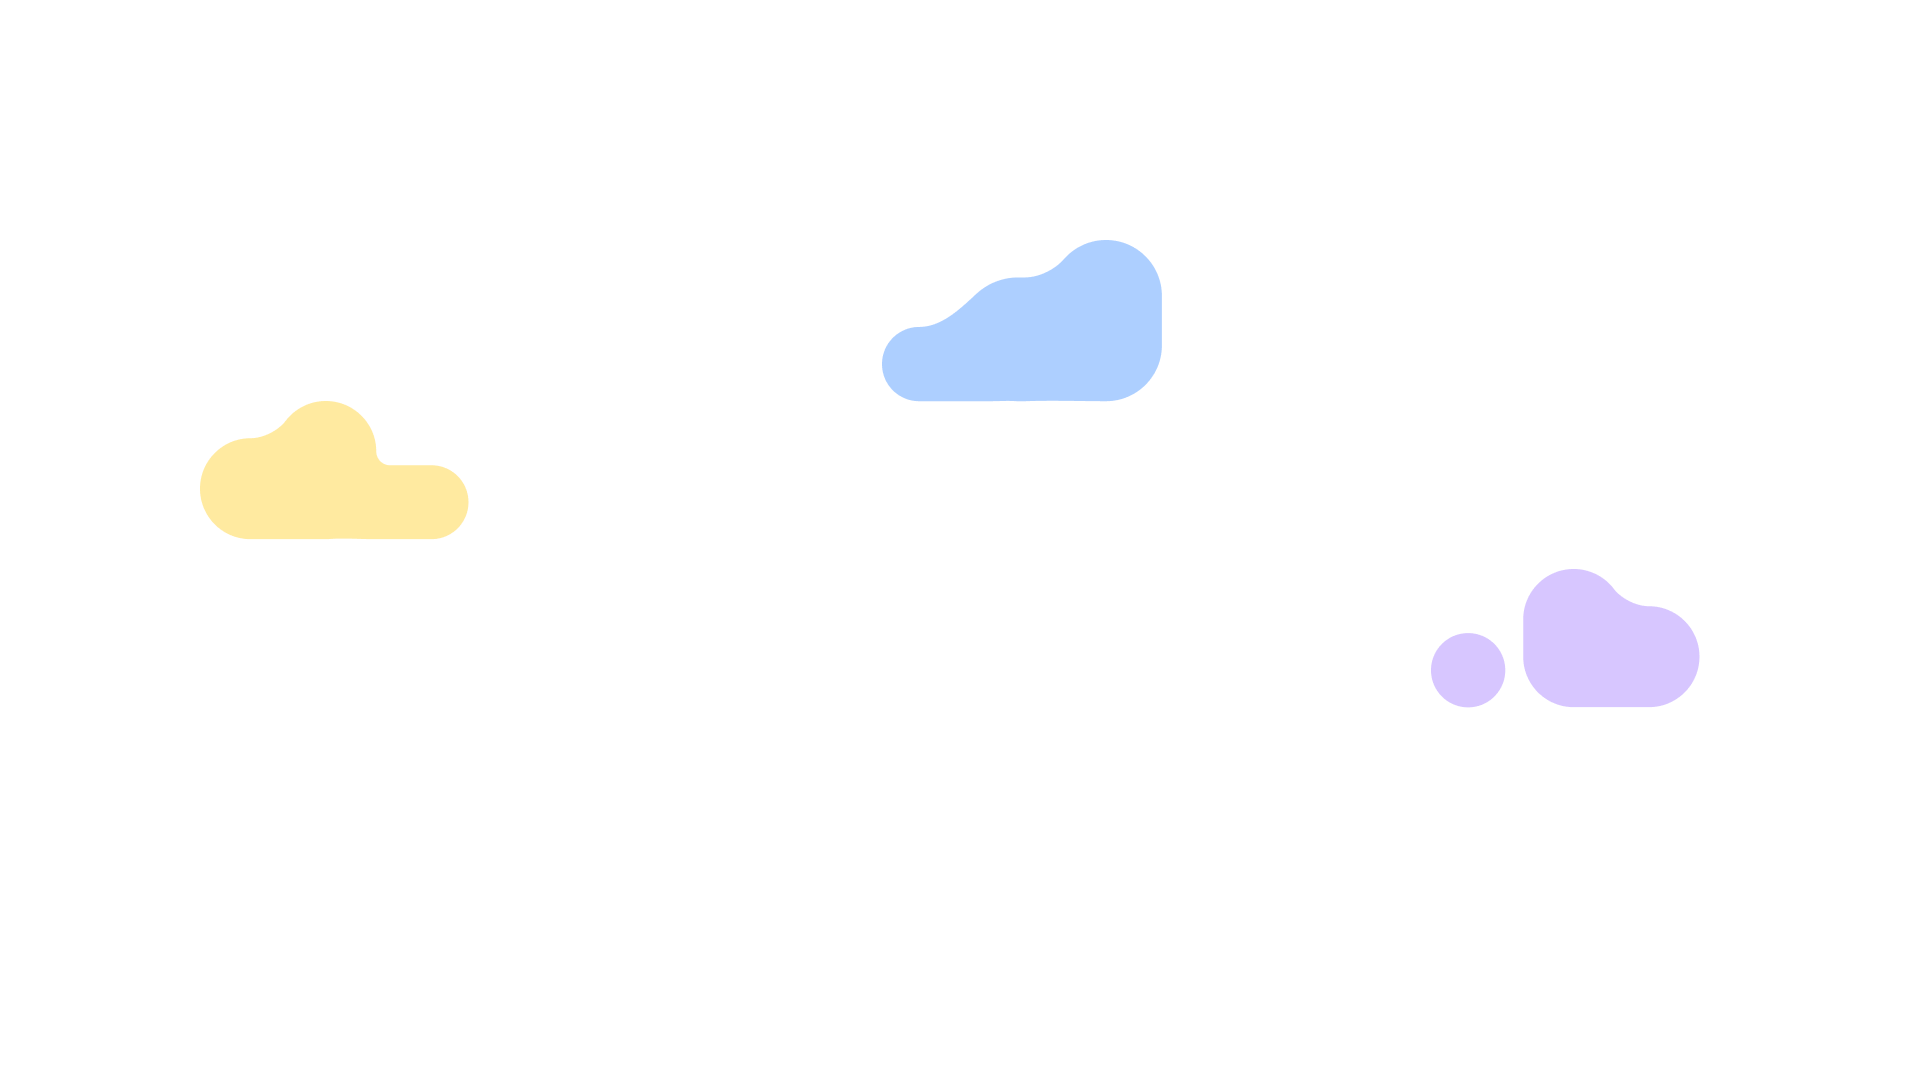
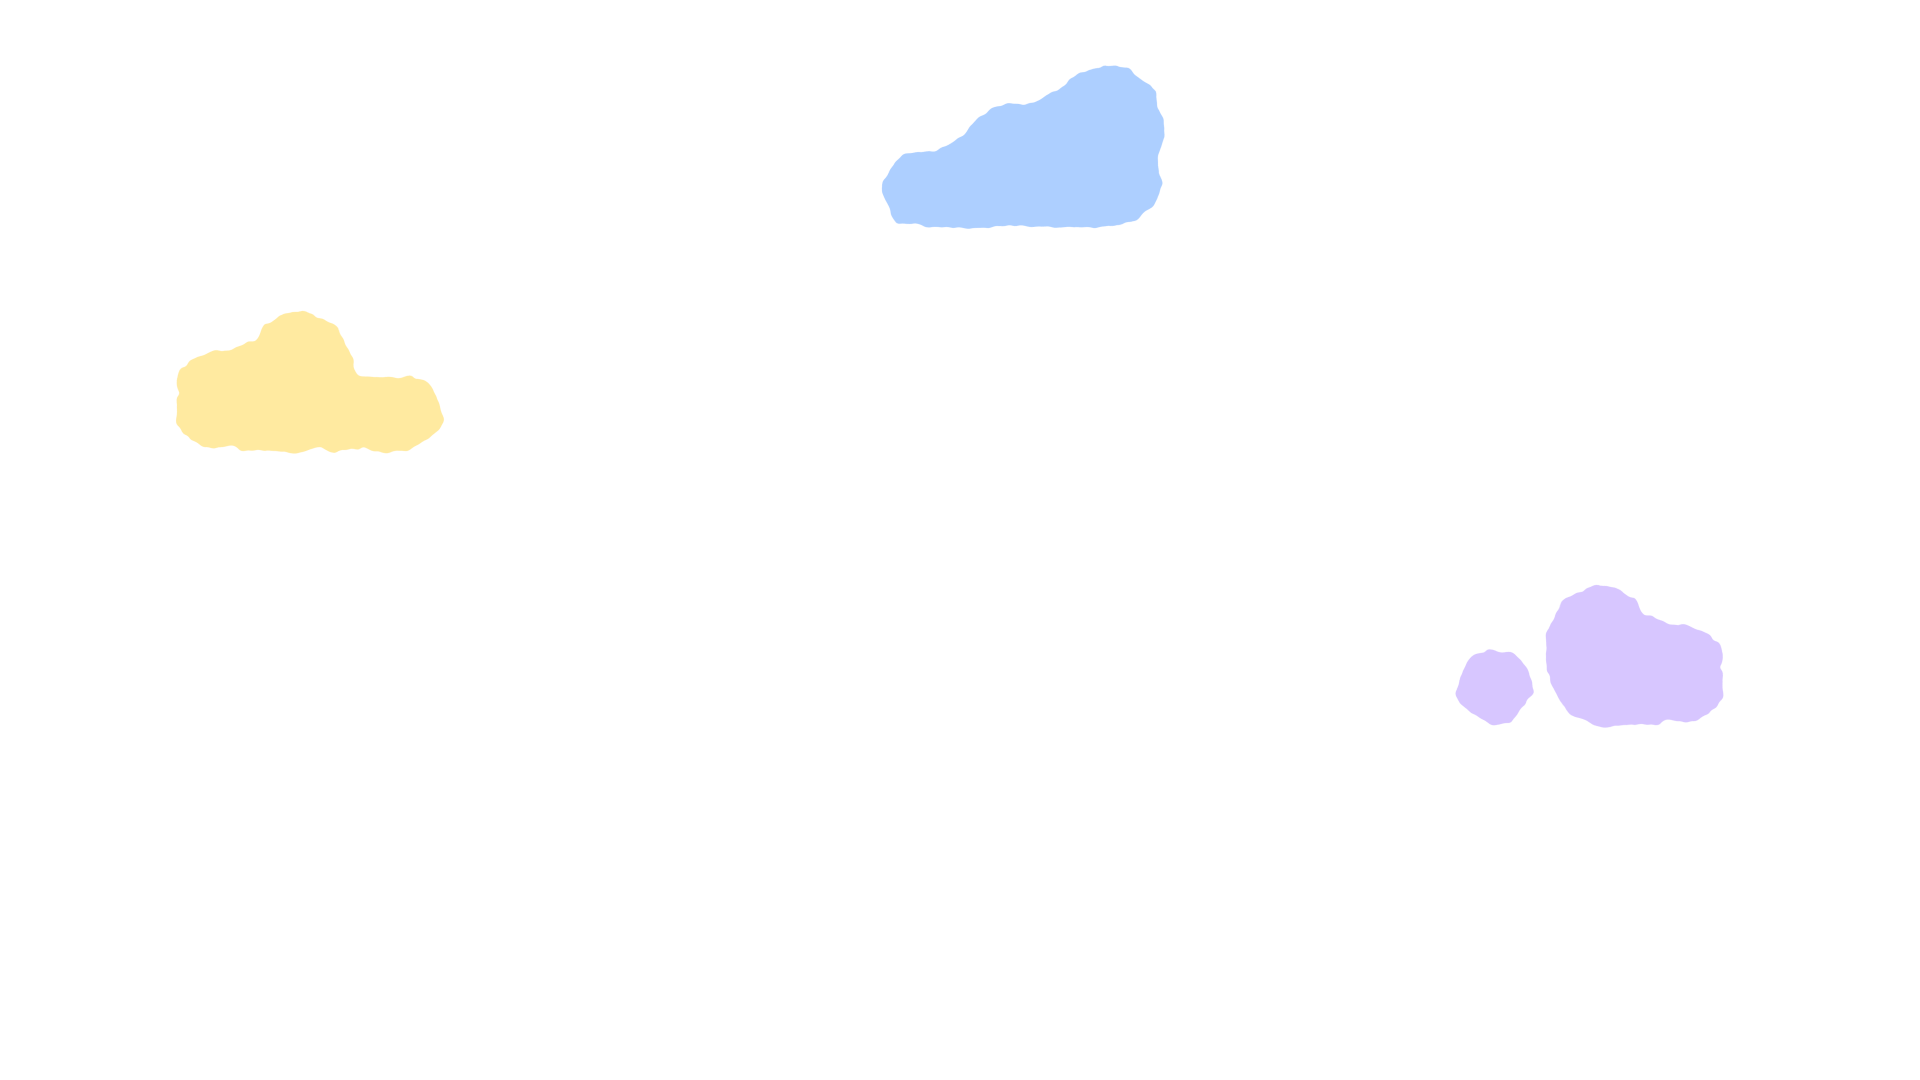
Moon added!

diff --git a/Home/home.scss b/Home/home.scss
@@ -1,6 +1,6 @@
 @import url('https://fonts.googleapis.com/css2?family=Montserrat:ital,wght@0,100..900;1,100..900&family=Nunito:ital,wght@0,200..1000;1,200..1000&family=Quicksand:wght@300..700&display=swap');
 html {
-    background-image: linear-gradient(45deg, #7838bc, #459de4);
+    background-image: linear-gradient(45deg, #8548da, #69ade4);
     color: white;
     font-family: 'Nunito', sans-serif;
     scroll-behavior: smooth;
@@ -57,7 +57,7 @@ html {
         display: flex;
         flex-direction: column;
         justify-content: right;
-        width: 10vw;
+        width: 300%;
         a {
             text-decoration: none;
             padding: 10px;
@@ -206,21 +206,75 @@ html {
 .aboutMe{
     justify-content: center;
     text-align: justify;
-    padding: 4vw;
-    height: 80%;
+    width: 100%;
+    height: 100%;
     display: flex;
     flex-direction: row;
+    position: relative;
+    overflow: hidden;
     .left {
-        width: 100%;
-        height: 80%;
-        
+        padding: 3vw;
+        display: flex;
+        flex-direction: column;
+        max-width: 50%;
     }
     .right {
-        width: 100%;
-        height: 100%;
+        width: 50%;
+        .moon {
+            height: 80%;
+            transform: translate(0px, 50px);
+            justify-content: center;
+            align-items: center;
+            display: flex;
+            img {
+                width: 500px;
+                position: absolute;
+                &.moonbase {    
+                    animation: moontate 30s linear infinite;
+                }
+                &.shine {
+                    mix-blend-mode: color-dodge;
+                }
+                &.shade{
+                    mix-blend-mode: multiply;
+                }
+            }
+            .rumah {
+                height: 480px;
+                width: 100px;
+                animation: moontate 30s linear infinite;
+                justify-content: center;
+                p {
+                    font-size: x-small;
+                    position: absolute;
+                    width:100%;
+                    text-align: left;
+                    transform: translateX(60px);
+                    opacity: 0%;
+                    transition: 400ms ease-in-out;
+                }
+                img {
+                    // top: 20px;
+                    position: absolute;
+                    width: 50px;
+                    height: 58px;
+                    transition: 300ms ease-in-out;
+                }
+                img:hover {
+                    transform: translateY(-10px);
+                }
+                img:hover ~ p {
+                    opacity: 100%;
+                }
+            }
+        }
         
     }
     
+}
+@keyframes moontate {
+    0% {transform: rotate(0deg);}
+    100% {transform: rotate(360deg);}
 }
 
 .bottomBar {
@@ -286,5 +340,16 @@ html {
     }
     .content1 {
         flex-direction: column;
+    }
+
+    .aboutMe {
+        display: flex;
+        flex-direction: column;
+        .left {
+            max-width: 100%;
+        }
+        .right {
+            max-width: 100%;
+        }
     }
 }

diff --git a/Home/home.html b/Home/home.html
@@ -45,9 +45,21 @@
             <p>I'm Nayaka Abhipraya, also known as Nyk Verse. I am a 19-years-old artist, musician, songwriter, writer, designer, and an editor. I express my inner thoughts in so many art forms and I am excited to explore and create more throughout my journey.</p>
         </div>
         <div class="right">
+            <div class="moon">
+                <img src="/Images/daMoon.png" class="moonbase" alt="">
+                <img src="/Images/daMoonShine.png" class="shine" srcset="">
+                <img src="/Images/daMoonShade.png" class="shade" srcset="">
+                <div class="rumah">
+                    <img src="/Images/daRumah.png">
+                    <p class="context">Rumah di Bulan (Home on the moon)</p>
+                </div>
+            </div>
         </div>
     </div>
-    <div class="projects"></div>
+    <div class="projects">
+        <H1>Fih</H1>
+        <img src="/Images/Fih.jpeg" alt="" srcset="">
+    </div>
 
 
 

diff --git a/AM/amhome.scss b/AM/amhome.scss
@@ -2,6 +2,7 @@ html {
     background-color: rgb(0, 0, 0);
     color: white;
     font-family: monospace;
+    background-image: linear-gradient(-45deg, #3c0e8a, #0f6086, #31bce7);
     body {
         margin: 0;
         padding: 0;
@@ -11,23 +12,26 @@ html {
     position: relative;
     width: 100%;
     height: 100%;
+    text-align: center;
+    overflow: hidden;
     justify-content: center;
     align-items: center;
     display: flex;
     flex-direction: column;
-    background-image: linear-gradient(-45deg, #3c0e8a, #0f6086, #31bce7);
+
     .amlogo {
         justify-content: center;
         align-items: center;
         position: relative;
         display: flex;
         flex-direction: column;
-        width: 20%; 
+        width: 50%; 
         padding: 20px;
-        .logo {
+        .logo{ 
             position: relative;
-            width: 100px;
+            width: 100;
             height: 100px;
+            display: flex;
             img {
                 position: absolute;
                 width: 100%;
@@ -42,6 +46,7 @@ html {
             font-size: large;
         }
     }
+    
 }
 
 @keyframes top {